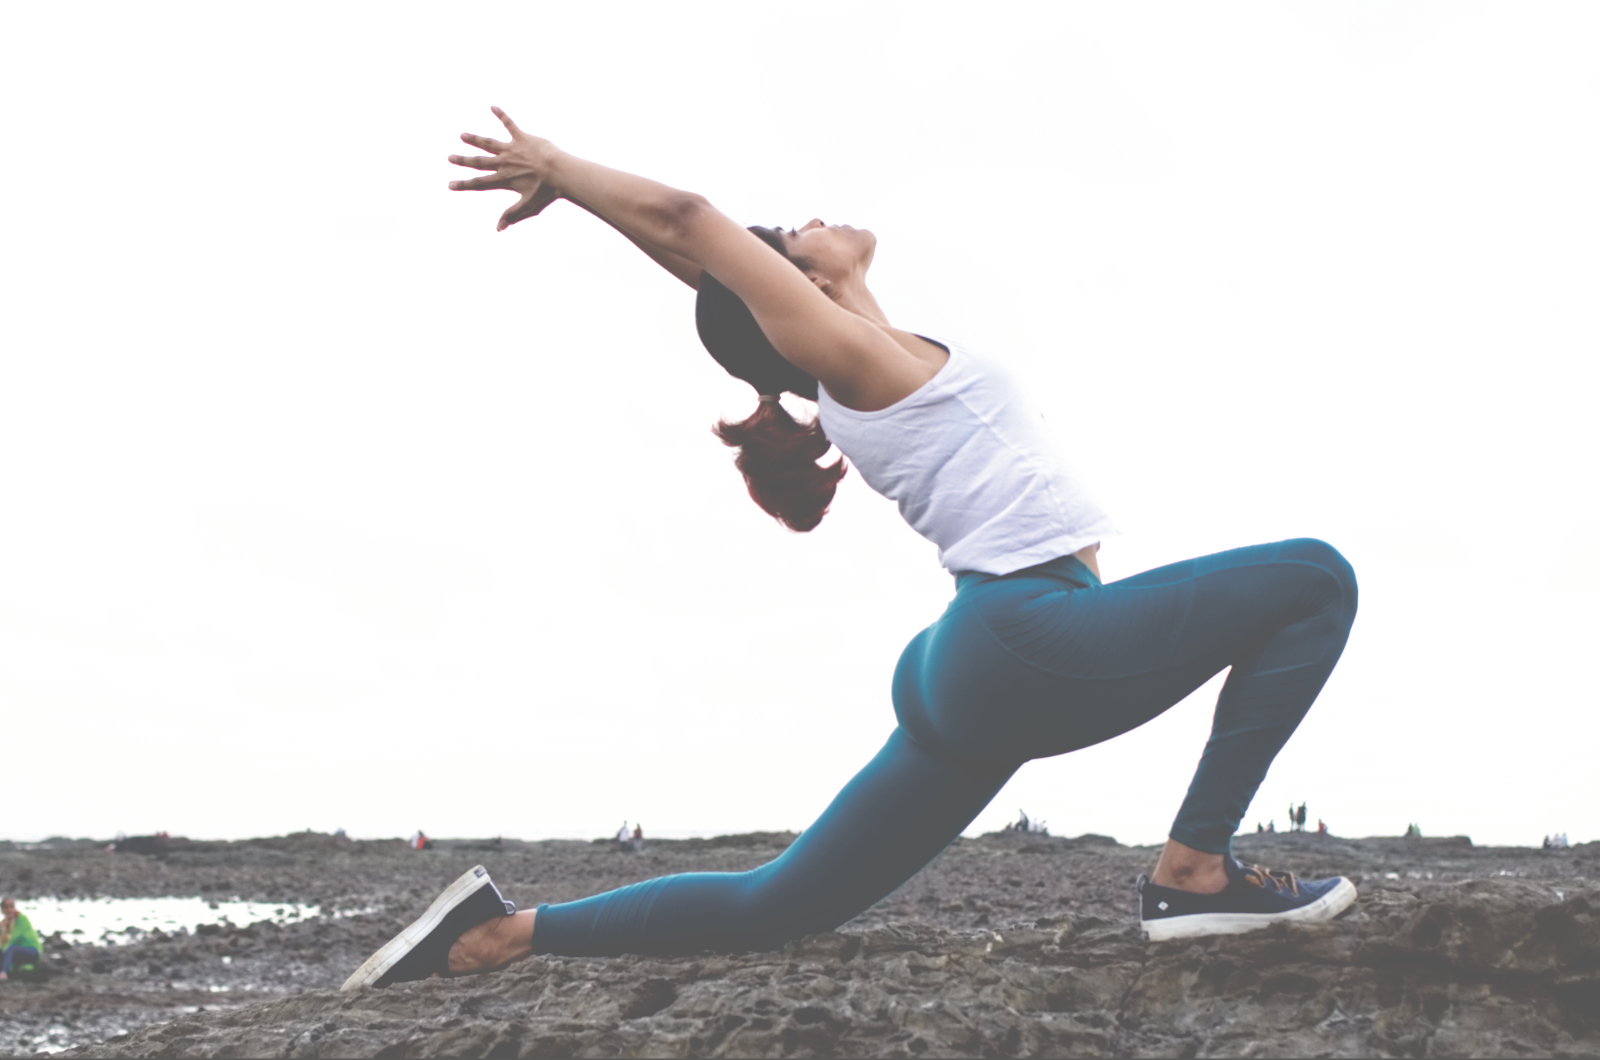
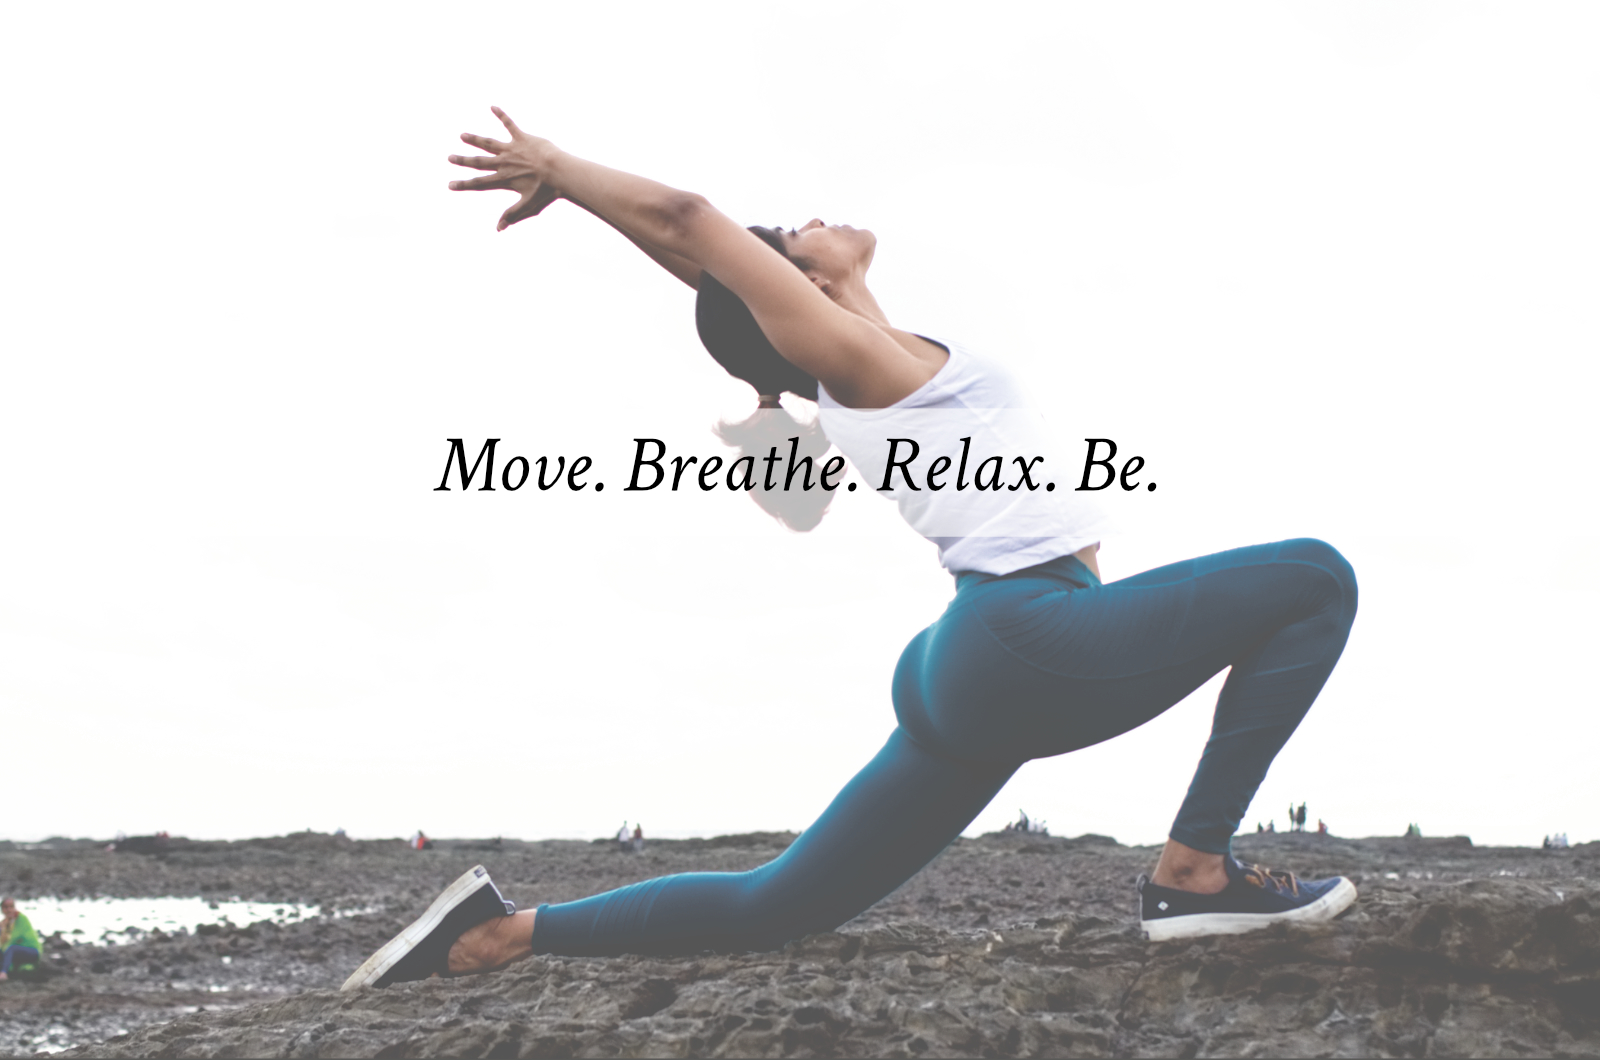
Update image, fix margins and text sizes

Changed region(s): [[0.25, 0.3736, 0.7188, 0.5292]]

diff --git a/index.html b/index.html
@@ -30,12 +30,11 @@ feature_row:
 
 <img src='/assets/images/Breathe.jpg' style="visibility: hidden">
 
-<p class="page__title_breathe"> Move. Breathe. Relax. Be. </p>
-
 </div>
 
 
-<div style="padding-top: 40px;font-size: 1.5em;">
+<div style="padding-top: 40px;font-size: 1.3em; margin-left: 10%; margin-right: 10%;">
+
 
   <h1> Yoga or Yoga Therapy? Does it matter? </h1>
 
@@ -51,7 +50,7 @@ feature_row:
   </p>
 
   <center>
-    <p>
+    <p style="font-size: 1.5em;">
       <b>
         <i>
           A regular yoga class focuses on learning
@@ -68,7 +67,7 @@ feature_row:
   </p>
 
   <center>
-    <p>
+    <p style="font-size: 1.5em;">
       <b>
         <i>
           A therapeutic yoga session focuses on applying a subset of those practices
@@ -91,34 +90,28 @@ feature_row:
   </p>
 
 
-  <div>
-    <table>
-      <tr>
+  <div class="page__hero-row">
+    <div class="page__hero-column column-left" >
+      <img src="/assets/images/AboutMe.jpg">
+    </div>
 
-        <td style="width: 35%; padding: 40px;">
-          <img src="/assets/images/AboutMe.jpg">
-        </td>
+    <div class="page__hero-column column-right">
+      <p>
+        I am Ramya and I'm an Advanced Teacher of Therapeutic Yoga.
+        That's the official title.
+      </p>
 
-        <td>
-          <p>
-            I am Ramya and I'm an Advanced Teacher of Therapeutic Yoga.
-            That's the official title.
-          </p>
+      <p>
+        What that means for you and me is that we work together to understand
+        what you need and what you want in terms of health and fitness, and find
+        a realistic plan to achieve that through yoga or yoga therapy.
+      </p>
 
-          <p>
-            What that means for you and me is that we work together to understand
-            what you need and what you want in terms of health and fitness, and find
-            a realistic plan to achieve that through yoga or yoga therapy.
-          </p>
-
-          <p>
-            You can read more about me in the <a href='/about/'>About Ramya</a> section
-            or follow me on <a href="https://instagram.com/ramyapillutla">instagram</a>.
-            I post tidbits about yoga and wellness there.
-          </p>
-        </td>
-
-      </tr>
-    </table>
+      <p>
+        You can read more about me in the <a href='/about/'>About Ramya</a> section
+        or follow me on <a href="https://instagram.com/ramyapillutla">instagram</a>.
+        I post tidbits about yoga and wellness there.
+      </p>
+    </div>
   </div>
 </div>

diff --git a/_sass/minimal-mistakes/_page.scss b/_sass/minimal-mistakes/_page.scss
@@ -502,6 +502,32 @@
   }
 }
 
+.page__hero-row:after {
+  content: "";
+  display: table;
+  clear: both;
+}
+
+.page__hero-column {
+  float: left;
+  padding: 40px;
+  font-size: 0.8em;
+}
+
+.column-left {
+  width: 35%;
+}
+
+.column-right {
+  width: 65%;
+}
+
+@media screen and (max-width: 600px) {
+  .page__hero-column {
+    width: 100%;
+  }
+}
+
 /*
    Related
    ========================================================================== */
